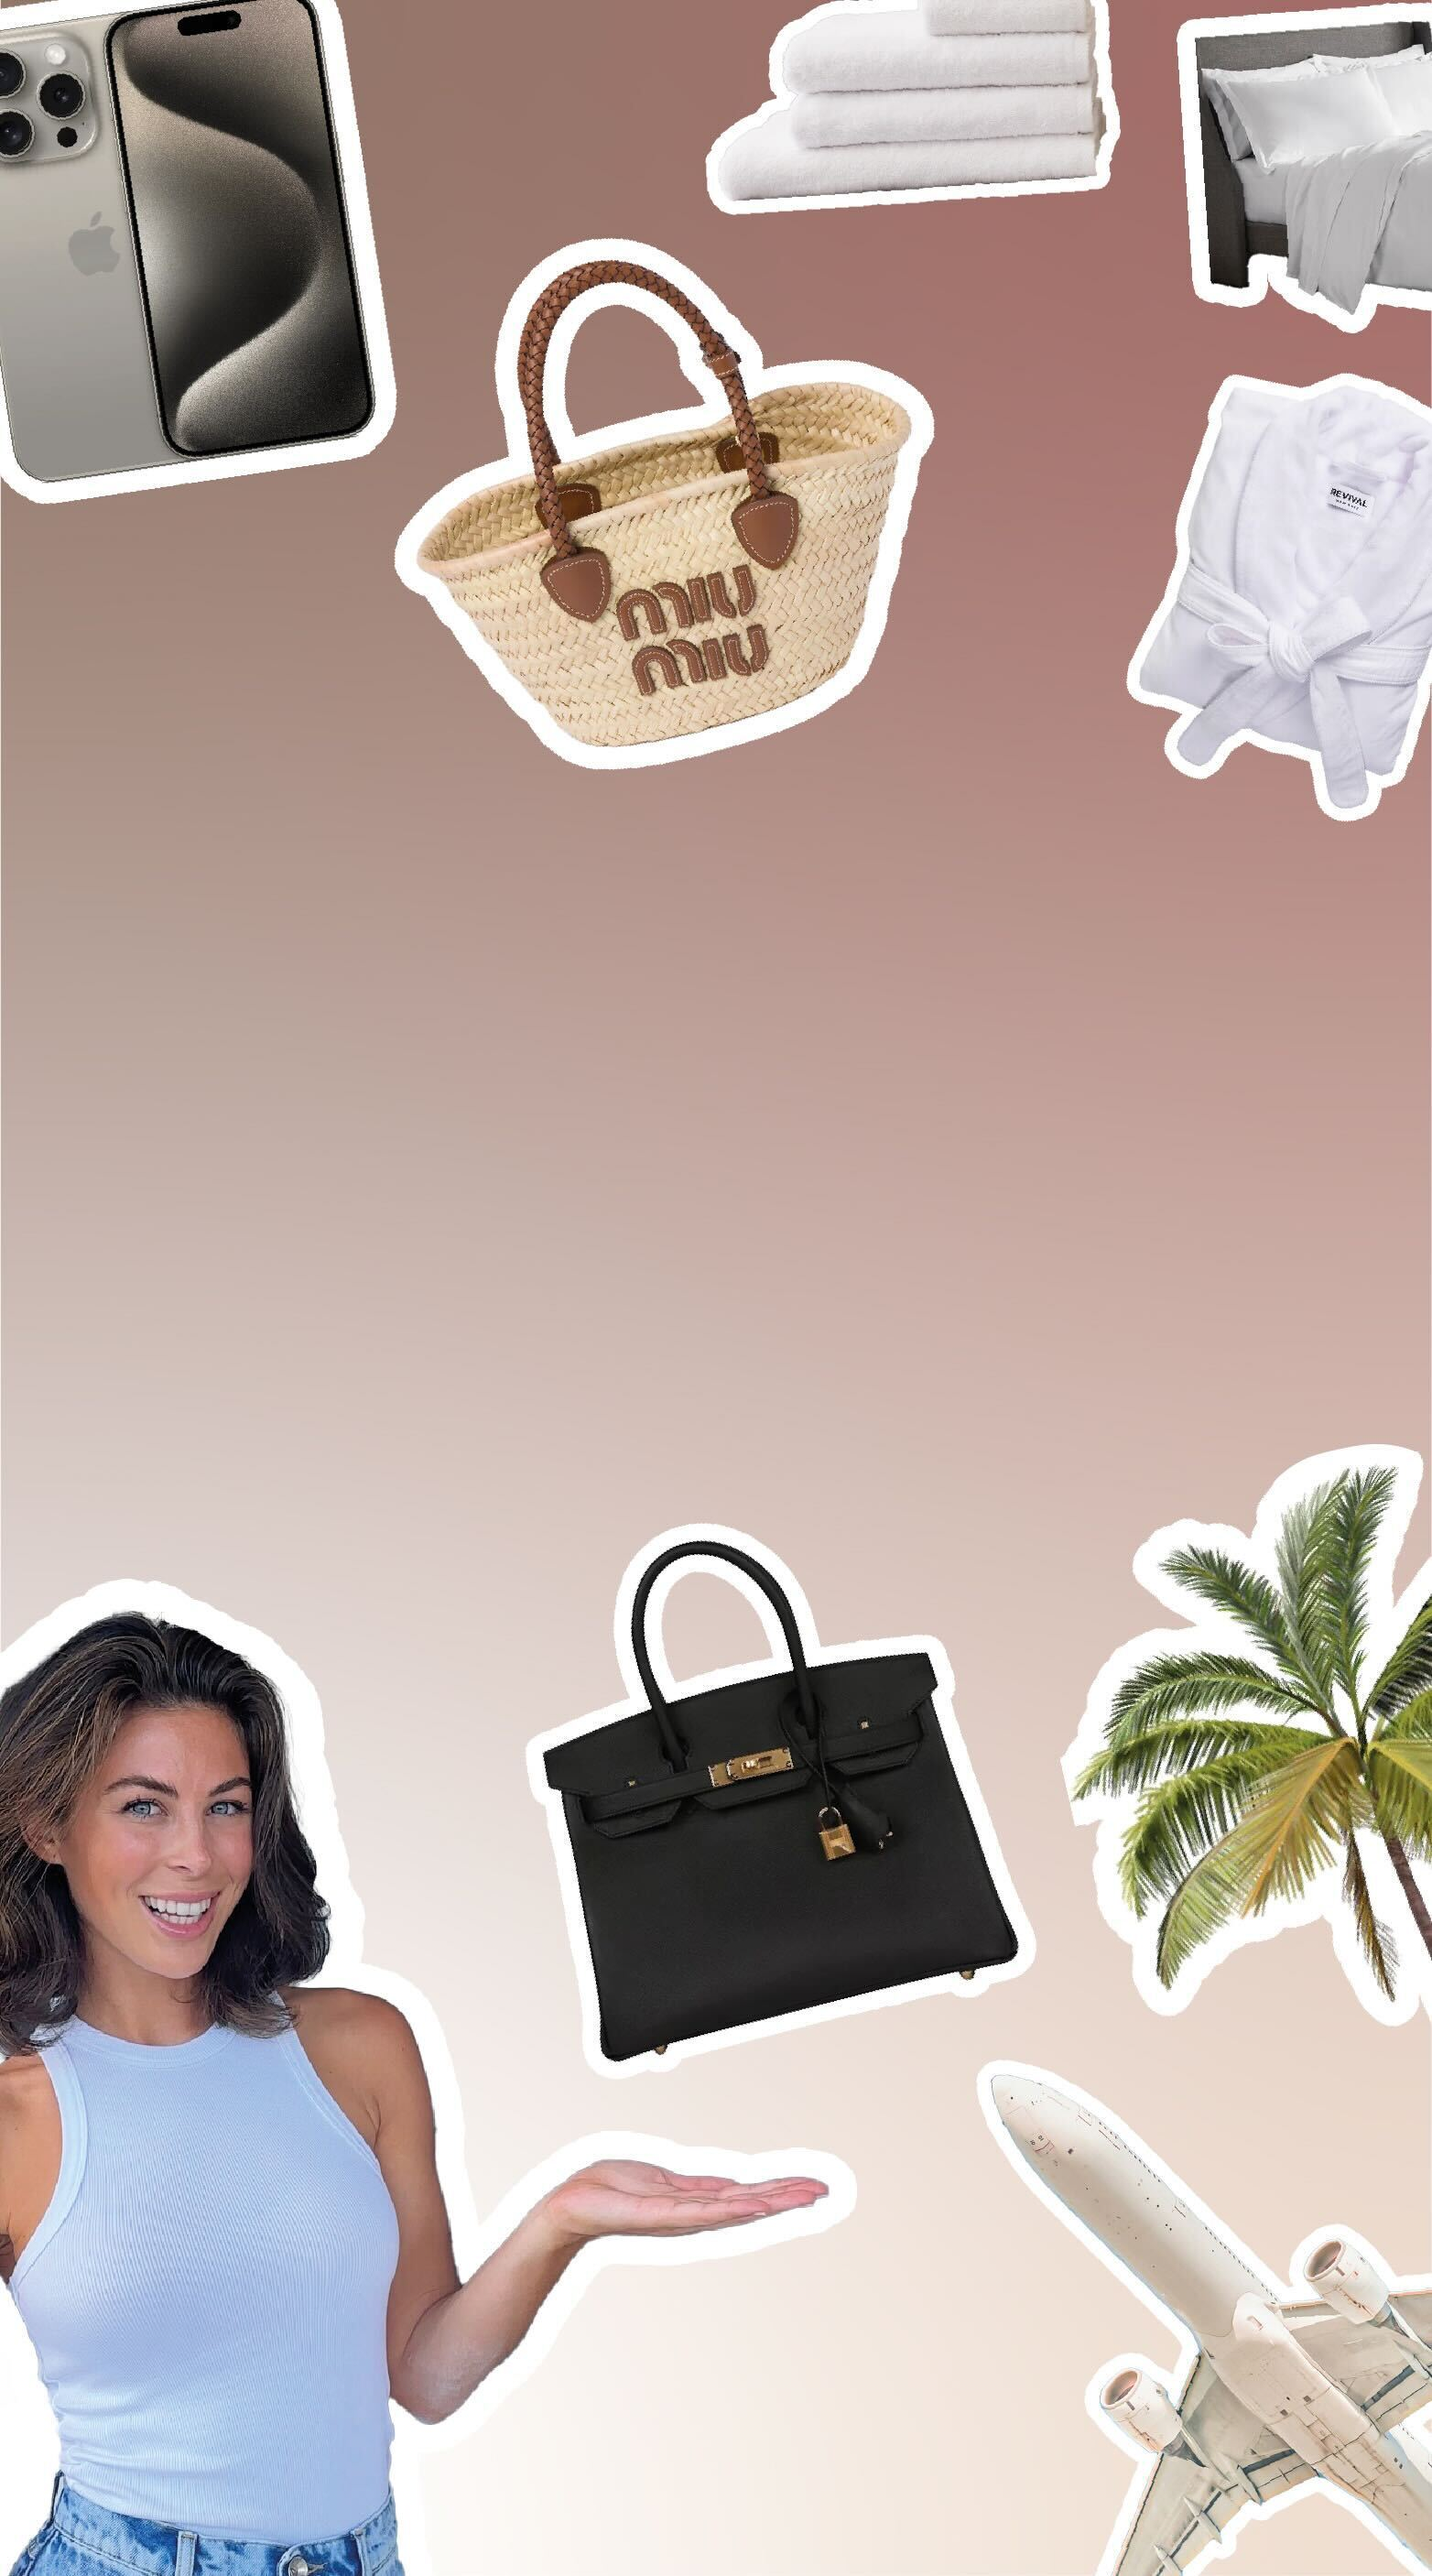
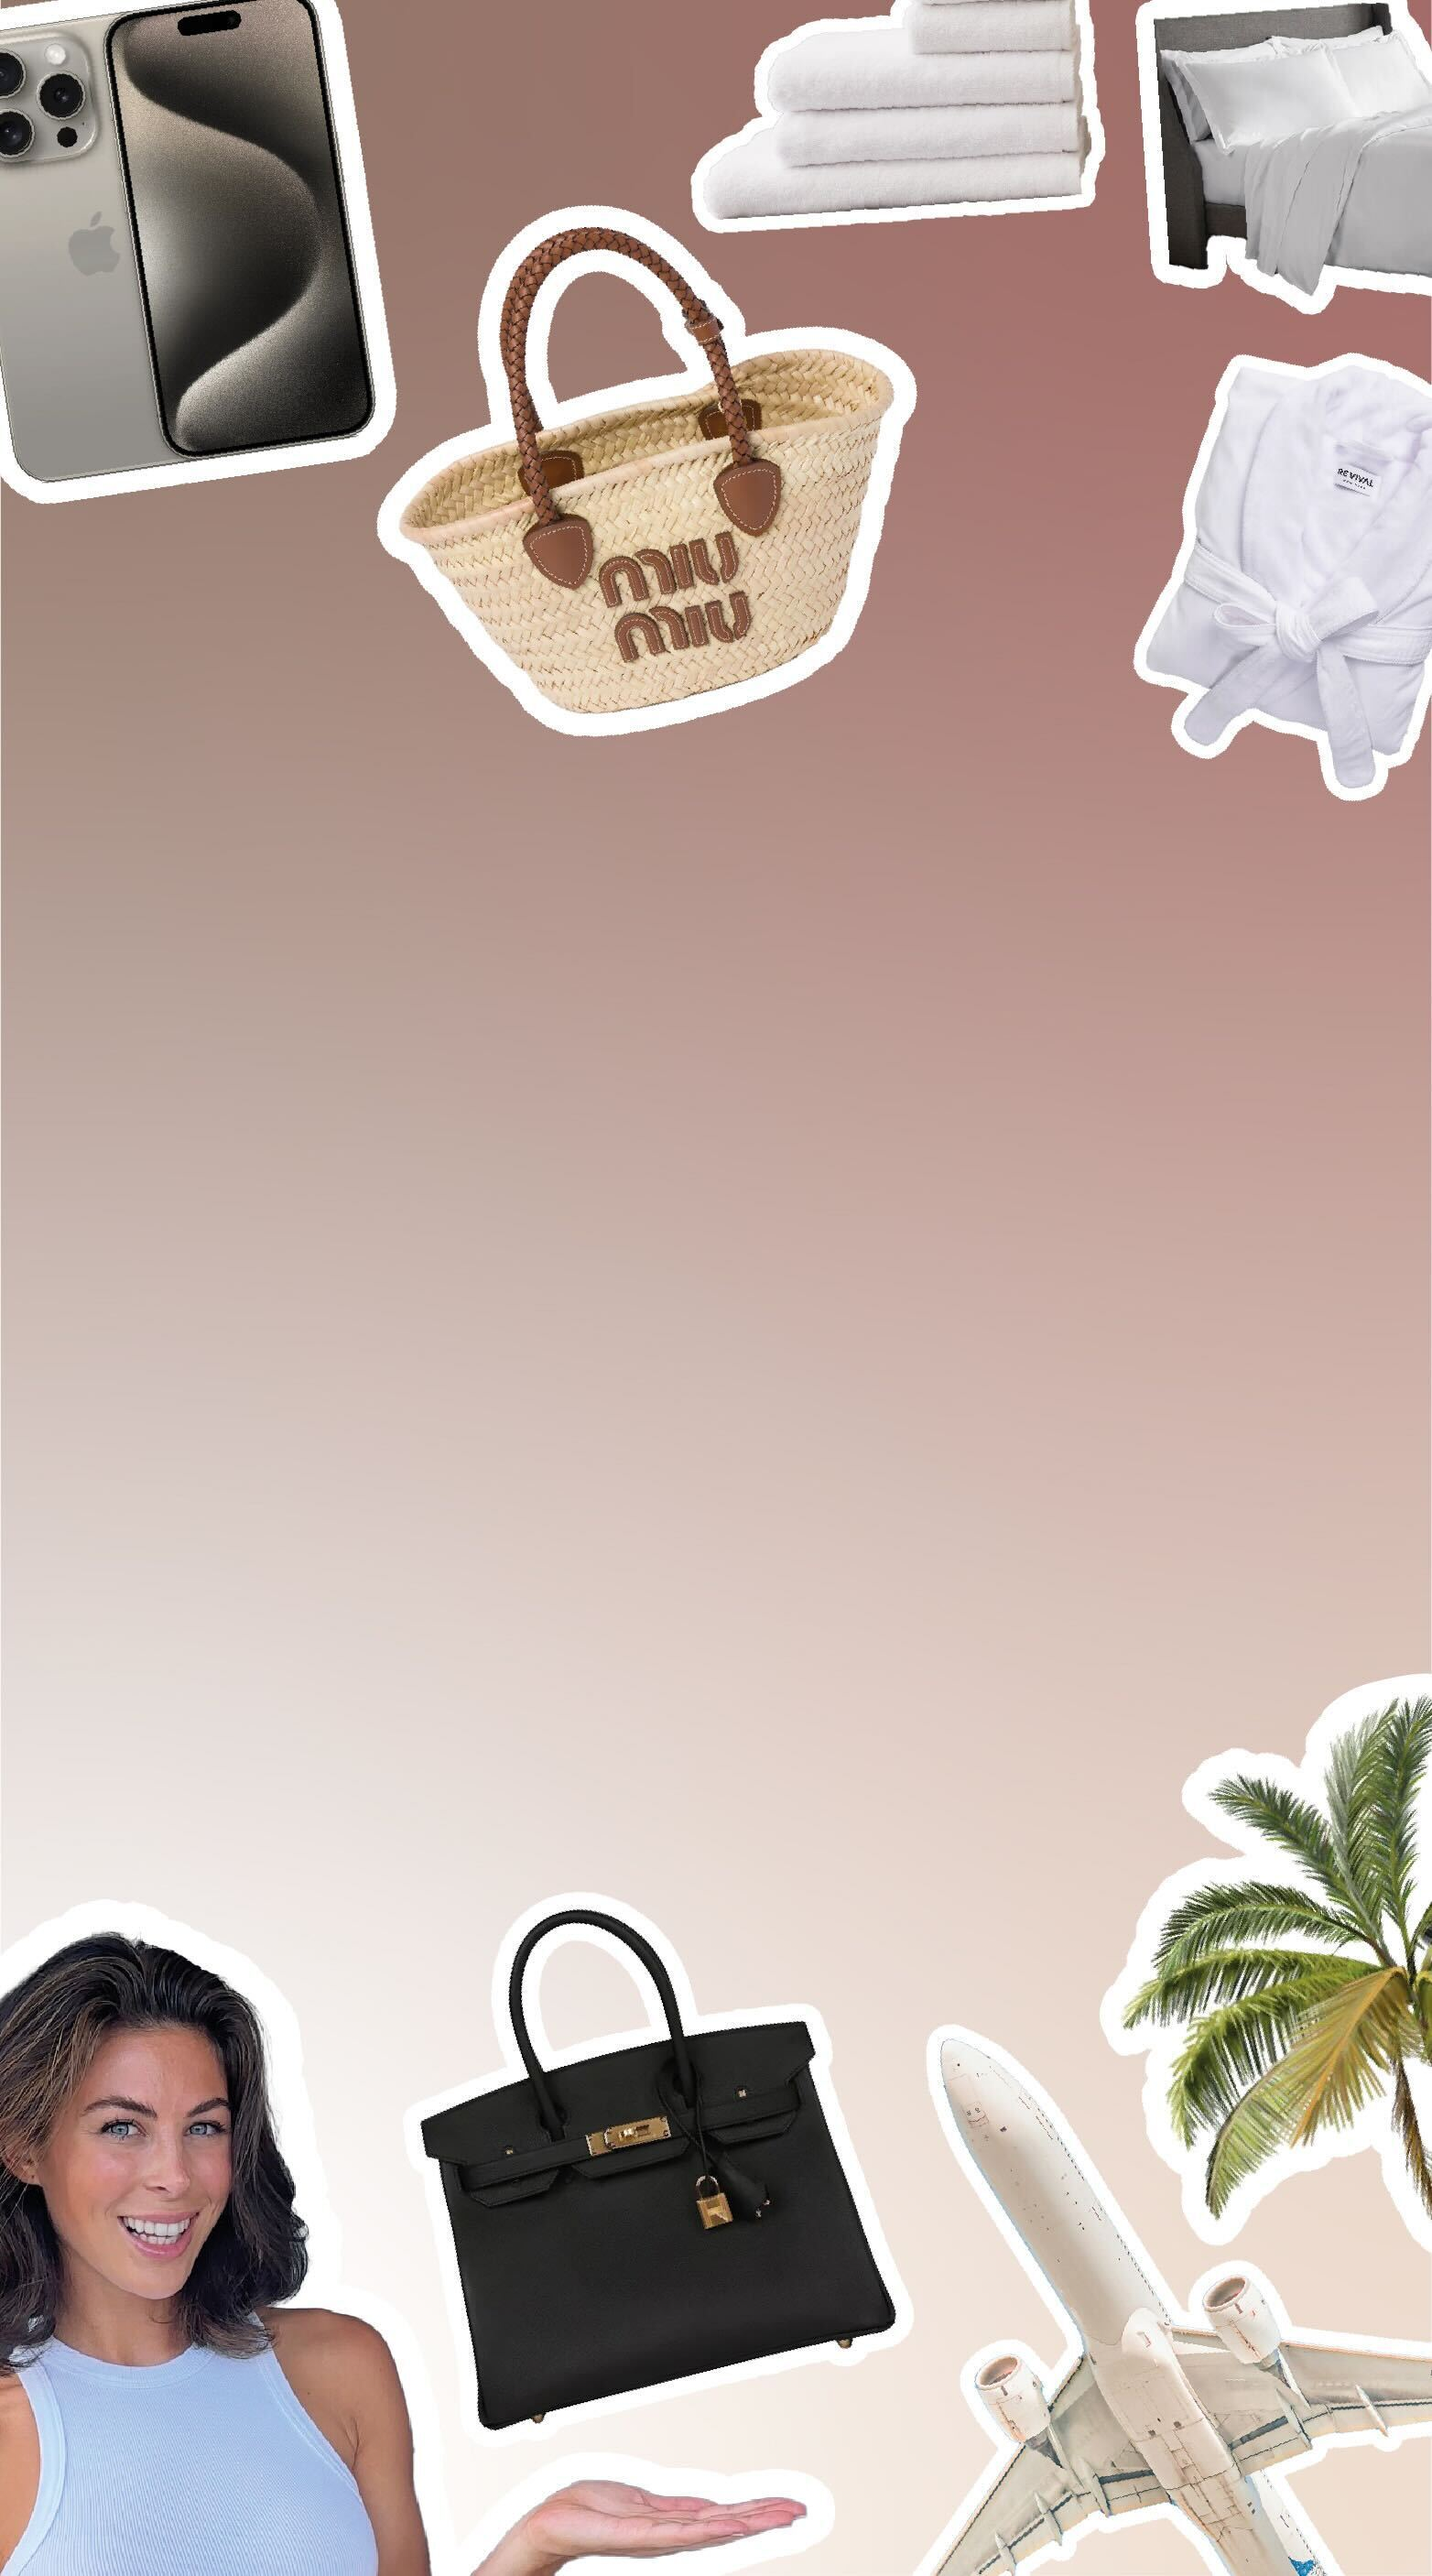
added picture for mobile

diff --git a/src/app/(landing)/components/header/header.component.tsx b/src/app/(landing)/components/header/header.component.tsx
@@ -19,7 +19,7 @@ export async function Header() {
 
   return (
     <header>
-      <div className="sm:bg-[url('/images/headerScreen.png')] bg-[url('/images/headerMobile.jpg')] sm:h-[900px] bg-no-repeat bg-cover h-[676px] sm:bg-top flex items-center justify-center">
+      <div className="sm:bg-[url('/images/headerScreen.png')] bg-[url('/images/headerMobile.jpg')] sm:h-[900px] bg-no-repeat bg-cover h-[770px] sm:bg-top flex items-center justify-center">
         <div className="sm:w-[43%] mx-[33px] my-[253px] sm:my-0 sm:mx-0 text-center flex flex-col gap-4 ">
           <div className="font-light text-4xl sm:text-7xl leading-[43px] sm:leading-[64.8px] text-white font-tt-ramillas">
             {headingA} <span className="italic">{headingB}</span> {headingC}
